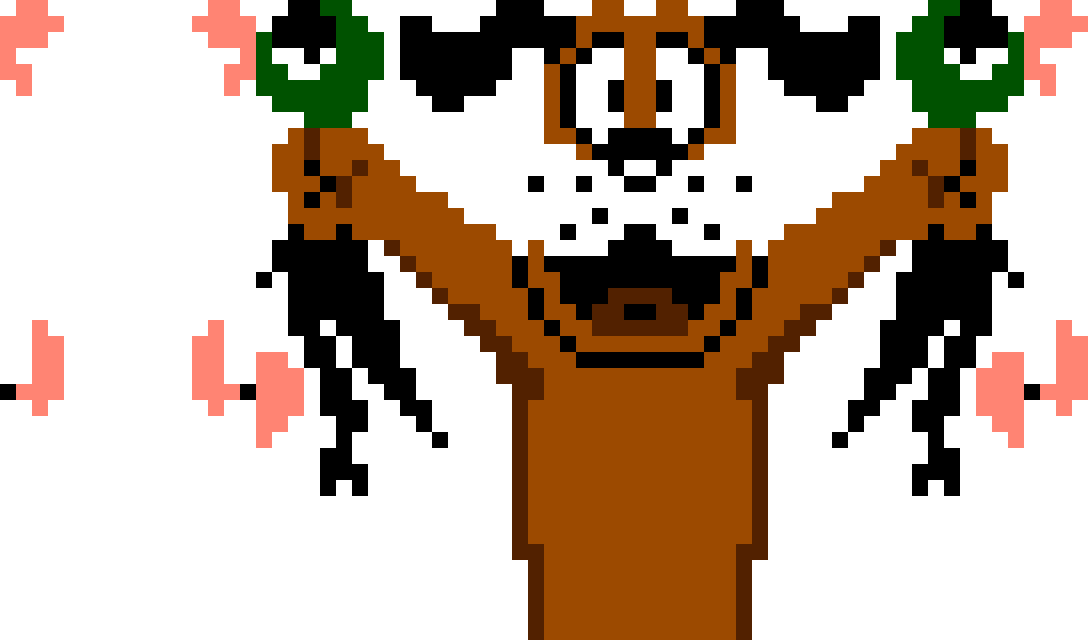
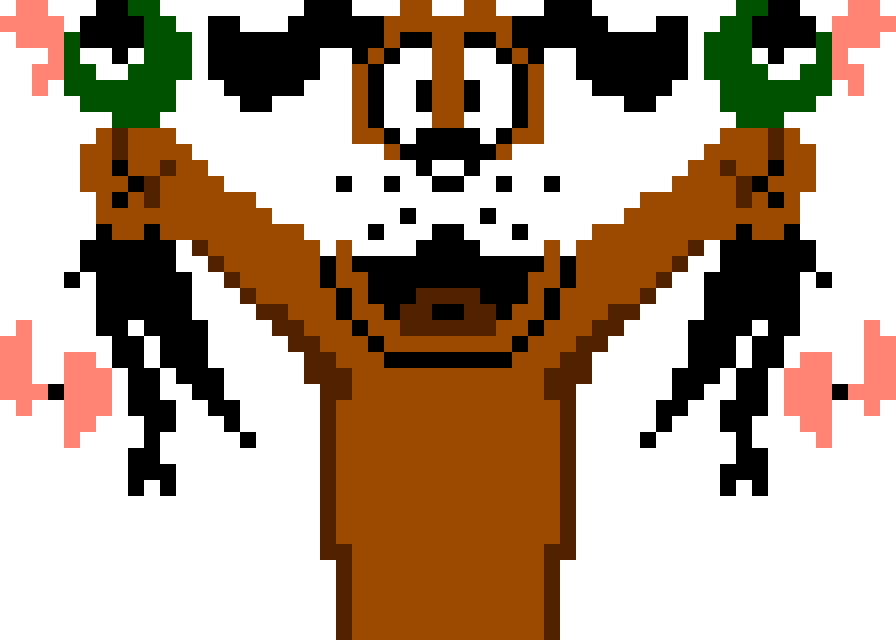
small fixes

diff --git a/server/src/inputs/inputs.tsx b/server/src/inputs/inputs.tsx
@@ -578,7 +578,7 @@ function PeopleBoxes({
 
 // Duck Hunt dog sprite geometry + pop-up timing (must cover DOG_REVEAL_MS from
 // the controller so a reveal never lingers as a static image after it's pruned).
-const DOG_ASPECT = 40 / 68; // dog-catch.png is 68×40
+const DOG_ASPECT = 40 / 56; // dog-catch.png is 56×40
 const DOG_RISE_MS = 220; // spring up from below the bottom edge
 const DOG_DROP_MS = 320; // drop back down at the end
 const DOG_MS = 6000; // total on-screen time, matches DOG_REVEAL_MS
@@ -695,6 +695,8 @@ function ShooterHud({
           );
         }
         const size = Math.round(chSize * (0.6 + 1.8 * t));
+        const bw = Math.max(3, Math.round(chSize * 0.12));
+        const ringColor = `#FFEE00${alpha}`;
         return (
           <View
             key={`burst-${b.id}`}
@@ -703,10 +705,45 @@ function ShooterHud({
               left: Math.round(px - size / 2),
               width: size,
               height: size,
-              borderWidth: Math.max(3, Math.round(chSize * 0.12)),
-              borderColor: `#FFEE00${alpha}`,
-            }}
-          />
+              overflow: 'visible',
+            }}>
+            <View
+              style={{
+                top: 0,
+                left: 0,
+                width: size,
+                height: bw,
+                backgroundColor: ringColor,
+              }}
+            />
+            <View
+              style={{
+                top: size - bw,
+                left: 0,
+                width: size,
+                height: bw,
+                backgroundColor: ringColor,
+              }}
+            />
+            <View
+              style={{
+                top: 0,
+                left: 0,
+                width: bw,
+                height: size,
+                backgroundColor: ringColor,
+              }}
+            />
+            <View
+              style={{
+                top: 0,
+                left: size - bw,
+                width: bw,
+                height: size,
+                backgroundColor: ringColor,
+              }}
+            />
+          </View>
         );
       })}
 
@@ -794,9 +831,10 @@ function ShooterHud({
 
       {/* Player crosshairs: pixel-art scope — an axis-aligned square outline
           with chunky axis lines poking through its edge midpoints and a center
-          pixel. Deliberately NO `rotation` (no diamond): rotated bordered
-          Views render displaced/oversized on this engine build, which visibly
-          broke the reticle. */}
+          pixel. Deliberately NO `rotation` (no diamond) and NO `borderWidth`:
+          rotated/bordered Views render displaced/oversized on this engine
+          build, which visibly broke the reticle — the outline is built from
+          four filled bars instead so it stays centered on the dot. */}
       {shooter.crosshairs.map((c) => {
         const { px, py } = toPx(c.x, c.y);
         const u = Math.max(3, th); // chunky "pixel" unit
@@ -804,6 +842,7 @@ function ShooterHud({
         const lineLen = Math.round(chSize * 0.34);
         const dot = Math.round(u * 1.4);
         const mid = Math.round(chSize / 2 - u / 2);
+        const sq = Math.round((chSize - d) / 2); // square top-left corner
         return (
           <View
             key={`ch-${c.clientId}`}
@@ -816,12 +855,38 @@ function ShooterHud({
             }}>
             <View
               style={{
-                top: Math.round((chSize - d) / 2),
-                left: Math.round((chSize - d) / 2),
+                top: sq,
+                left: sq,
                 width: d,
+                height: u,
+                backgroundColor: c.color,
+              }}
+            />
+            <View
+              style={{
+                top: sq + d - u,
+                left: sq,
+                width: d,
+                height: u,
+                backgroundColor: c.color,
+              }}
+            />
+            <View
+              style={{
+                top: sq,
+                left: sq,
+                width: u,
                 height: d,
-                borderWidth: u,
-                borderColor: c.color,
+                backgroundColor: c.color,
+              }}
+            />
+            <View
+              style={{
+                top: sq,
+                left: sq + d - u,
+                width: u,
+                height: d,
+                backgroundColor: c.color,
               }}
             />
             <View

diff --git a/editor/app/mobile/[roomId]/shoot/page.tsx b/editor/app/mobile/[roomId]/shoot/page.tsx
@@ -9,6 +9,8 @@ import { startPublish } from '@/components/control-panel/whip-input/utils/whip-p
 import {
   applyServerUrlFromQueryParam,
   getEffectiveClientServerUrl,
+  getStoredClientServerUrl,
+  isLoopbackHost,
   toWsUrl,
 } from '@/lib/server-url';
 
@@ -553,8 +555,11 @@ export default function ShootControllerPage() {
   }, [stage, fire]);
 
   const connectWs = useCallback(() => {
-    const ro = remoteOrigin();
-    const base = toWsUrl(ro ?? getEffectiveClientServerUrl());
+    const base = toWsUrl(
+      getStoredClientServerUrl() ??
+        remoteOrigin() ??
+        getEffectiveClientServerUrl(),
+    );
     const url = `${base}/room/${encodeURIComponent(String(roomId))}/ws`;
     setWsDbg(`connecting: ${url}`);
     const ws = new WebSocket(url);
@@ -638,19 +643,7 @@ export default function ShootControllerPage() {
         // Fresh session: drop any previous publisher PC first.
         camPcRef.current?.close();
         camPcRef.current = null;
-        // Behind a tunnel, force the WHIP endpoint to this page's own origin so
-        // Caddy forwards /whip to the media server (same-origin: no CORS/mixed),
-        // mirroring the WHEP handling below.
-        const ro = remoteOrigin();
-        let whipUrl = o.whipUrl;
-        if (ro) {
-          try {
-            const u = new URL(o.whipUrl);
-            whipUrl = ro + u.pathname + u.search;
-          } catch {
-            /* keep original */
-          }
-        }
+        const whipUrl = resolveMediaUrl(o.whipUrl);
         void startPublish(
           o.inputId,
           o.bearerToken,
@@ -715,18 +708,7 @@ export default function ShootControllerPage() {
   useEffect(() => {
     if (stage !== 'play' || !room?.whepUrl) return;
     let cancelled = false;
-    // Behind a tunnel, force the WHEP endpoint to the page's own origin so the
-    // proxy forwards /whep to the media server (same-origin: no CORS/mixed).
-    const ro = remoteOrigin();
-    let whepUrl = room.whepUrl;
-    if (ro) {
-      try {
-        const u = new URL(room.whepUrl);
-        whepUrl = ro + u.pathname + u.search;
-      } catch {
-        /* keep original */
-      }
-    }
+    const whepUrl = resolveMediaUrl(room.whepUrl);
     void connectWhep(whepUrl)
       .then((conn) => {
         if (cancelled) {
@@ -1272,4 +1254,21 @@ function remoteOrigin(): string | null {
   if (typeof window === 'undefined') return null;
   const o = window.location.origin;
   return /(localhost|127\.0\.0\.1|0\.0\.0\.0|\[::1\])/.test(o) ? null : o;
+}
+
+// Media endpoints (WHIP/WHEP) come from the server, which may only know its
+// loopback address. When such a URL would be unreachable from the phone, graft
+// its path onto the explicit `?server=` base (which may include a proxy path
+// prefix) or, failing that, onto this page's own origin. URLs that are already
+// public (e.g. an instance behind nginx) pass through untouched.
+function resolveMediaUrl(url: string): string {
+  const base = getStoredClientServerUrl() ?? remoteOrigin();
+  if (!base) return url;
+  try {
+    const u = new URL(url);
+    if (!isLoopbackHost(u.hostname)) return url;
+    return base + u.pathname + u.search;
+  } catch {
+    return url;
+  }
 }

diff --git a/editor/lib/server-url.ts b/editor/lib/server-url.ts
@@ -18,12 +18,12 @@ export const SERVER_PRESETS: ServerPreset[] = [
   {
     id: 'instance-a-prod',
     label: 'Instance A Prod',
-    url: 'https://puffer.fishjam.io/smelter-editor-api',
+    url: 'https://puffer.fishjam.io/smelter-editor-production-api',
   },
   {
     id: 'instance-b-dev',
     label: 'Instance B Dev',
-    url: 'https://puffer.fishjam.io/smelter-editor-b-api',
+    url: 'https://puffer.fishjam.io/smelter-editor-dev-api',
   },
   { id: 'custom', label: 'Custom', url: '' },
 ];
@@ -32,7 +32,7 @@ function normalizeServerUrl(url: string): string {
   return url.replace(/\/$/, '');
 }
 
-function isLoopbackHost(hostname: string): boolean {
+export function isLoopbackHost(hostname: string): boolean {
   return (
     hostname === 'localhost' ||
     hostname === '127.0.0.1' ||
@@ -141,6 +141,30 @@ export function setStoredServerUrl(url: string | null): void {
   const normalized = normalizeServerUrl(trimmed);
   localStorage.setItem(SERVER_URL_STORAGE_KEY, normalized);
   document.cookie = `${SERVER_URL_COOKIE_NAME}=${encodeURIComponent(normalized)}; Path=/; Max-Age=${ONE_YEAR_SECONDS}; SameSite=Lax`;
+}
+
+/**
+ * The server URL the user picked explicitly (via `?server=` deep link or the
+ * server selector) — or null when unset or a loopback address. Callers use it
+ * to override same-origin heuristics: a page served from a static host (e.g.
+ * the Vercel deploy) can still be told to talk to a public API elsewhere.
+ */
+export function getStoredClientServerUrl(): string | null {
+  if (getStoredAppMode() === 'demo') {
+    return null;
+  }
+  const stored = getStoredServerUrl();
+  if (!stored) {
+    return null;
+  }
+  try {
+    if (isLoopbackHost(new URL(stored).hostname)) {
+      return null;
+    }
+  } catch {
+    return null;
+  }
+  return stored;
 }
 
 export function getEffectiveClientServerUrl(): string {

diff --git a/server/src/captions/captionSocket.ts b/server/src/captions/captionSocket.ts
@@ -21,11 +21,12 @@ export function sideChannelSocketPathLen(
 
 /**
  * Pick a socket directory short enough for the longest expected input id.
- * Our ids look like `{roomUuid}::whip::{inputUuid}` (~80 chars) → the dir
- * itself must stay under ~11 characters on macOS.
+ * Our ids look like `{roomUuid}::local::{inputUuid}` (81 chars) → the dir
+ * itself must stay within 10 characters on macOS. A 5-digit pid at `/tmp/s`
+ * is already one char over, so encode the pid in base36.
  */
 export function createCaptionSocketDir(): string {
-  const dir = `/tmp/s${process.pid}`;
+  const dir = `/tmp/s${process.pid.toString(36)}`;
   mkdirSync(dir, { recursive: true });
   // Smelter expects a clean socket dir; drop stale sockets after a crash.
   for (const name of readdirSync(dir)) {
@@ -40,9 +41,11 @@ export function logSocketPathBudget(
   socketDir: string,
   inputId?: string,
 ): void {
+  // Budget against the longest id variant — `::local::` beats `::whip::` by
+  // one char, which is exactly what pushed real paths over SUN_LEN before.
   const sampleId =
     inputId ??
-    '00000000-0000-0000-0000-000000000000::whip::00000000-0000-0000-0000-000000000000';
+    '00000000-0000-0000-0000-000000000000::local::00000000-0000-0000-0000-000000000000';
   const samplePath = sideChannelSocketPath(socketDir, sampleId);
   const len = samplePath.length;
   const ok = len <= UNIX_SOCKET_PATH_MAX;

diff --git a/editor/components/dashboard/duck-hunter-panel.tsx b/editor/components/dashboard/duck-hunter-panel.tsx
@@ -10,6 +10,7 @@ import {
   setAIModel,
   setDuckHunterConfig,
 } from '@/app/actions/actions';
+import { getStoredClientServerUrl } from '@/lib/server-url';
 import { Button } from '@/components/ui/button';
 import { Slider } from '@/components/ui/slider';
 import {
@@ -204,7 +205,13 @@ export function DuckHunterPanel({ roomId }: Props) {
   const shootUrl = useMemo(() => {
     const b = base.trim().replace(/\/+$/, '');
     if (!b) return '';
-    return `${b}/mobile/${encodeURIComponent(roomId)}/shoot`;
+    const url = `${b}/mobile/${encodeURIComponent(roomId)}/shoot`;
+    // If this editor talks to a publicly reachable API (e.g. an instance behind
+    // nginx), bake it into the link so the phone targets the same backend even
+    // when the page itself is served from a static deploy (Vercel). A loopback
+    // API is unreachable from a phone, so the page's own-origin fallback stays.
+    const api = getStoredClientServerUrl();
+    return api ? `${url}?server=${encodeURIComponent(api)}` : url;
   }, [base, roomId]);
 
   const onBaseChange = (value: string) => {

diff --git a/server/scripts/slice-dog.py b/server/scripts/slice-dog.py
@@ -1,7 +1,7 @@
 #!/usr/bin/env python3
 """Slice the Duck Hunt dog "got two" pose out of the reference sprite sheet.
 
-The repo-root `duck_hunt_sprites_dog.png` is the full NES Duck Hunt sprite sheet
+`workshops/duck_hunt_sprites_dog.png` is the full NES Duck Hunt sprite sheet
 on a sky-blue background. The Duck Hunter game shows this dog — holding two
 ducks — whenever a player bags two in a row. We cut just that pose, key out the
 blue background to transparency, and (like the ducks) also emit a NEAREST-upscaled
@@ -25,14 +25,16 @@ SCALE = 16
 
 # Bounding box of the "got two" dog (two ducks in raised paws) on the sheet,
 # found by keying out the blue background — see scripts/slice-dog analysis.
-CROP = (40, 264, 108, 304)  # left, top, right, bottom
+# Left edge starts at the x44-47 gap between frames; starting any further left
+# picks up the beak/feet of the neighboring "GOT ONE!" frame's duck.
+CROP = (44, 264, 108, 304)  # left, top, right, bottom
 
 # Sky-blue sheet background; the dog/ducks contain no blue, so keying it is safe.
 BG = np.array([99, 173, 255])
 BG_TOL = 60  # sum-of-abs-channel distance under which a pixel is "background"
 
 SERVER_DIR = Path(__file__).resolve().parent.parent
-SHEET = SERVER_DIR.parent / "duck_hunt_sprites_dog.png"
+SHEET = SERVER_DIR.parent / "workshops" / "duck_hunt_sprites_dog.png"
 DST = SERVER_DIR / "imgs" / "dog"
 DST_HI = SERVER_DIR / "imgs" / "dog-hi"
 

diff --git a/dev/README-tunnel.md b/dev/README-tunnel.md
@@ -30,6 +30,24 @@ originem** proxy (Caddy) i puścić **jeden tunel**.
    pnpm --filter client dev               # edytor :3000
    ```
 
+## Warsztat: ładna domena `workshop.smelter.dev` (bez ngroka)
+
+Strona telefonu zostaje na Vercelu (`https://workshop.smelter.dev`), a backend
+wskazuje parametr `?server=` w linku/QR — panel Duck Huntera dokleja go sam,
+gdy edytor używa publicznego API (nie-localhost). Dwa warianty backendu:
+
+- **Dev instancja na GPU boxie (zero tuneli):** silnik działa na
+  gpu1-sandbox za nginxem. W edytorze wybierz preset „Instance B Dev"
+  (`https://puffer.fishjam.io/smelter-editor-dev-api`) i tyle — QR z panelu
+  zawiera właściwy `?server=`.
+- **Silnik lokalnie na laptopie:** `./dev/tunnel-ssh.sh` (Caddy :8080 +
+  reverse SSH na boxa, ścieżka `smelter-editor-workshop` w nginx — snippet w
+  `dev/nginx-workshop-location.conf`, wklejany jednorazowo). Uwaga: media
+  WebRTC (UDP) lecą prosto z laptopa, więc telefon musi być w tej samej sieci.
+
+Jest też `./dev/tunnel-workshop.sh` (Cloudflare Tunnel przejmujący całą domenę
+DNS-em) — wymaga autoryzacji w strefie Cloudflare `smelter.dev` (DevOps).
+
 5. **Na telefonie otwórz** (bez `?server=` — strona sama celuje w origin tunelu):
    ```
    https://abc.ngrok-free.dev/mobile/<roomId>/shoot
